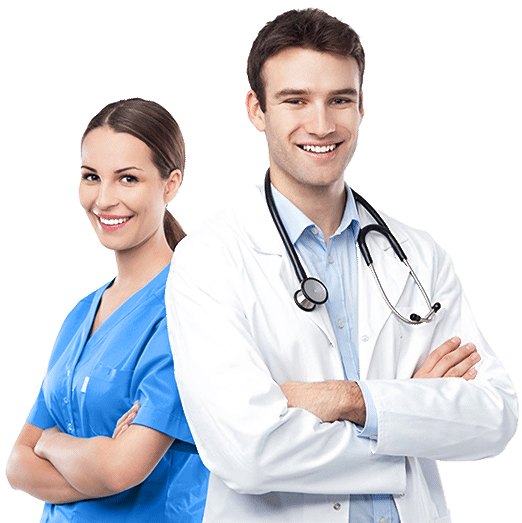
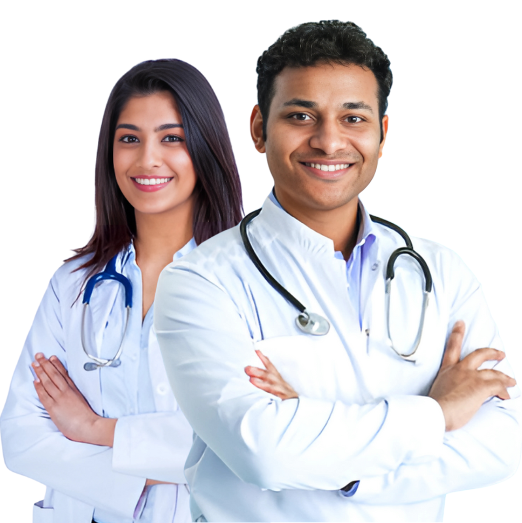
dr image

diff --git a/about-us.html b/about-us.html
@@ -24,30 +24,35 @@
 	<!-- About Us-->
 
 
-<section class="py-5 bg-white">
-  <div class="container">
-    <!-- Main About Section -->
-    <div class="row align-items-center mb-5">
-      <div class="col-lg-6">
-        <img src="img/about-img.jpg" alt="About TCiS" class="img-fluid rounded shadow">
-      </div>
-      <div class="col-lg-6">
-        <h6 class="text-uppercase text-primary">About Us</h6>
-        <h2 class="fw-bold mb-3">Empowering Healthcare Through <span class="text-primary">Innovative IT Solutions</span></h2>
-        <p class="text-muted">
-          Founded in 2012, <strong>Trio Corporation IT Services (TCiS)</strong> has led the way in delivering scalable, secure, and smart IT solutions for the healthcare industry. Headquartered in Pune, with offices in Mumbai, Ahmedabad, and Delhi, we help healthcare institutions undergo digital transformation with confidence.
-        </p>
-        <ol class="list-unstyled text-muted">
-          <li><i class="bi bi-check-circle-fill text-primary me-2"></i> Smart & scalable hospital software</li>
-          <li><i class="bi bi-check-circle-fill text-primary me-2"></i> Trusted by 220+ hospitals</li>
-          <li><i class="bi bi-check-circle-fill text-primary me-2"></i> NABH & HIPAA compliant</li>
-        </ol>
-        <a href="mailto:info@triocorporation.in" class="btn btn-primary mt-3">Learn More</a>
-      </div>
-    </div>
+	<section class="py-5 bg-white">
+		<div class="container">
+			<!-- Main About Section -->
+			<div class="row align-items-center mb-5">
+				<div class="col-lg-6">
+					<img src="img/rahulsir.jpg" alt="About TCiS" class="img-fluid rounded shadow">
+				</div>
+				<div class="col-lg-6">
+					<h6 class="text-uppercase text-primary">About Us</h6>
+					<h2 class="fw-bold mb-3">Empowering Healthcare Through <span class="text-primary">Innovative IT
+							Solutions</span></h2>
+					<p class="text-muted">
+						Founded in 2012, <strong>Trio Corporation IT Services (TCiS)</strong> has led the way in
+						delivering scalable, secure, and smart IT solutions for the healthcare industry. Headquartered
+						in Pune, with offices in Mumbai, Ahmedabad, and Delhi, we help healthcare institutions undergo
+						digital transformation with confidence.
+					</p>
+					<ol class="list-unstyled text-muted">
+						<li><i class="bi bi-check-circle-fill text-primary me-2"></i> Smart & scalable hospital software
+						</li>
+						<li><i class="bi bi-check-circle-fill text-primary me-2"></i> Trusted by 220+ hospitals</li>
+						<li><i class="bi bi-check-circle-fill text-primary me-2"></i> NABH & HIPAA compliant</li>
+					</ol>
+					<a href="mailto:info@triocorporation.in" class="btn btn-primary mt-3">Learn More</a>
+				</div>
+			</div>
 
-    <!-- Leadership and Vision -->
-    <!-- <div class="row text-center mb-5">
+			<!-- Leadership and Vision -->
+			<!-- <div class="row text-center mb-5">
       <div class="col-md-4 mb-4">
         <div class="bg-light p-4 rounded shadow-sm h-100">
           <h6 class="text-primary">Founder & Director</h6>
@@ -70,55 +75,59 @@
     </div> -->
 
 
-	<div class="row text-center mb-5">
-  <div class="col-md-4 mb-4">
-    <div class="bg-light p-4 rounded shadow-sm h-100">
-      <h6 class="text-primary fs-5 fw-semibold">Founder & Director</h6>
-      <h5 class="fw-bold fs-4">Mr. Rahul Wanchoo</h5>
-      <p class="text-muted fs-6" style="font-size: 1.05rem;">
-        With over 15 years of expertise, Rahul leads TCiS in delivering 
-        <strong>HIMS Trio</strong>, a trusted solution used by hospitals nationwide.
-      </p>
-    </div>
-  </div>
-  <div class="col-md-4 mb-4">
-    <div class="bg-light p-4 rounded shadow-sm h-100">
-      <h6 class="text-primary fs-5 fw-semibold">Vision</h6>
-      <p class="text-muted fs-6" style="font-size: 1.05rem;">
-        To drive progress with innovative tech that improves healthcare, 
-        empowers lives, and enables a smarter future.
-      </p>
-    </div>
-  </div>
-  <div class="col-md-4 mb-4">
-    <div class="bg-light p-4 rounded shadow-sm h-100">
-      <h6 class="text-primary fs-5 fw-semibold">Mission</h6>
-      <p class="text-muted fs-6" style="font-size: 1.05rem;">
-        To deliver reliable and cost-effective IT solutions enabling operational excellence 
-        and business growth for our clients.
-      </p>
-    </div>
-  </div>
-</div>
+			<div class="row text-center mb-5">
+				<div class="col-md-4 mb-4">
+					<div class="bg-light p-4 rounded shadow-sm h-100">
+						<h6 class="text-primary fs-5 fw-semibold">Founder & Director</h6>
+						<h5 class="fw-bold fs-4">Mr. Rahul Wanchoo</h5>
+						<p class="text-muted fs-6" style="font-size: 1.05rem;">
+							With over 15 years of expertise, Rahul leads TCiS in delivering
+							<strong>HIMS Trio</strong>, a trusted solution used by hospitals nationwide.
+						</p>
+					</div>
+				</div>
+				<div class="col-md-4 mb-4">
+					<div class="bg-light p-4 rounded shadow-sm h-100">
+						<h6 class="text-primary fs-5 fw-semibold">Vision</h6>
+						<p class="text-muted fs-6" style="font-size: 1.05rem;">
+							To drive progress with innovative tech that improves healthcare,
+							empowers lives, and enables a smarter future.
+						</p>
+					</div>
+				</div>
+				<div class="col-md-4 mb-4">
+					<div class="bg-light p-4 rounded shadow-sm h-100">
+						<h6 class="text-primary fs-5 fw-semibold">Mission</h6>
+						<p class="text-muted fs-6" style="font-size: 1.05rem;">
+							To deliver reliable and cost-effective IT solutions enabling operational excellence
+							and business growth for our clients.
+						</p>
+					</div>
+				</div>
+			</div>
 
-    <!-- Product Description -->
-    <div class="mb-5">
-      <h3 class="fw-bold text-primary mb-3">Our Flagship Product – HIMS Trio</h3>
-      <p class="text-muted">
-        HIMS Trio is a robust and modular Hospital Information Management Software designed to digitize, simplify, and optimize every aspect of hospital operations. Whether it’s patient registration, billing, EMR, pharmacy, laboratory, or MIS reporting, our software offers 30+ seamlessly integrated modules to ensure end-to-end hospital automation.
-      </p>
-      <ul class="text-muted">
-        <li>• Eliminates paperwork and redundant processes</li>
-        <li>• Enhances data accuracy and accessibility</li>
-        <li>• Ensures compliance with NABH and HIPAA standards</li>
-        <li>• Improves patient care and administrative control</li>
-        <li>• Enables cloud-based and on-premise deployment</li>
-      </ul>
-      <p class="text-muted">Our solution is fully customizable for clinics, diagnostic centers, and multi-specialty hospitals.</p>
-    </div>
+			<!-- Product Description -->
+			<div class="mb-5">
+				<h3 class="fw-bold text-primary mb-3">Our Flagship Product – HIMS Trio</h3>
+				<p class="text-muted">
+					HIMS Trio is a robust and modular Hospital Information Management Software designed to digitize,
+					simplify, and optimize every aspect of hospital operations. Whether it’s patient registration,
+					billing, EMR, pharmacy, laboratory, or MIS reporting, our software offers 30+ seamlessly integrated
+					modules to ensure end-to-end hospital automation.
+				</p>
+				<ul class="text-muted">
+					<li>• Eliminates paperwork and redundant processes</li>
+					<li>• Enhances data accuracy and accessibility</li>
+					<li>• Ensures compliance with NABH and HIPAA standards</li>
+					<li>• Improves patient care and administrative control</li>
+					<li>• Enables cloud-based and on-premise deployment</li>
+				</ul>
+				<p class="text-muted">Our solution is fully customizable for clinics, diagnostic centers, and
+					multi-specialty hospitals.</p>
+			</div>
 
-    <!-- Core Values -->
-    <div class="mb-5">
+			<!-- Core Values -->
+			<!-- <div class="mb-5">
       <h4 class="fw-bold text-primary mb-3">Our Core Values</h4>
       <ul class="text-muted">
         <li>• <strong>Innovation:</strong> We believe in pushing boundaries through technology</li>
@@ -127,41 +136,79 @@
         <li>• <strong>Excellence:</strong> Commitment to quality, performance, and long-term results</li>
         <li>• <strong>Collaboration:</strong> A culture of teamwork, respect, and shared success</li>
       </ul>
-    </div>
+    </div> -->
 
-    <!-- Industry Footprint -->
-    <div class="mb-5">
-      <h4 class="fw-bold text-primary mb-3">Our Industry Footprint</h4>
-      <ul class="text-muted">
-        <li>• <strong>Clients Served:</strong> 1,500+ across healthcare, pharma, telecom, and public sectors</li>
-        <li>• <strong>Installations:</strong> 220+ HIMS Trio implementations and growing</li>
-        <li>• <strong>Employees:</strong> A dedicated team of 50+ experienced IT professionals</li>
-        <li>• <strong>Presence:</strong> Active in major Indian metros with expansion plans in progress</li>
-      </ul>
-      <p class="text-muted">Our team combines domain expertise with a passion for innovation, ensuring every solution aligns with real-world healthcare challenges.</p>
-    </div>
+			<!-- Industry Footprint -->
+			<div class="mb-5">
+				<h4 class="fw-bold text-primary mb-3">Our Industry Footprint</h4>
+				<ul class="text-muted">
+					<li>• <strong>Clients Served:</strong> 1,500+ across healthcare, pharma, telecom, and public sectors
+					</li>
+					<li>• <strong>Installations:</strong> 220+ HIMS Trio implementations and growing</li>
+					<li>• <strong>Employees:</strong> A dedicated team of 50+ experienced IT professionals</li>
+					<li>• <strong>Presence:</strong> Active in major Indian metros with expansion plans in progress</li>
+				</ul>
+				<p class="text-muted">Our team combines domain expertise with a passion for innovation, ensuring every
+					solution aligns with real-world healthcare challenges.</p>
+			</div>
 
-    <!-- Future Vision CTA -->
-    <div style="background-color: #f08718; color: #ffffff;" class="p-4 rounded-3 shadow text-center">
-  <h5 style="color: #ffffff;" class="fw-bold mb-3">Let’s Build the Future of Healthcare Together</h5>
-  <p class="mb-2" style="color: #ffffff;">
-    Whether you're a single-specialty clinic or a multi-location hospital chain, 
-    <strong style="color: #ffffff;">HIMS Trio</strong> is your trusted partner in healthcare automation.
-  </p>
-  <p class="mb-3" style="color: #ffffff;">
-    Our team is here to guide you from consultation to deployment and beyond.
-  </p>
-  <p class="mb-0" style="color: #ffffff;">
-    📞 Contact us at <strong style="color: #ffffff;">+91 902 10 23456</strong><br>
-    📧 Email: 
-    <a href="mailto:info@triocorporation.in" style="color: #ffffff; text-decoration: underline;">
-      info@triocorporation.in
-    </a>
-  </p>
-</div>
+			<div class="mb-5 text-center">
+				<h4 class="text-orange mb-4">Our Core Values</h4>
+				<div class="row justify-content-center">
+					<div class="col-md-2 col-6 mb-4">
+						<img src="https://cdn-icons-png.flaticon.com/512/3304/3304566.png" width="60" alt="Innovation">
+						<p class="fw-semibold text-primary mt-2">Innovation</p>
+						<p class="small text-muted">We believe in pushing boundaries through technology</p>
+					</div>
+					<div class="col-md-2 col-6 mb-4">
+						<img src="https://cdn-icons-png.flaticon.com/512/3271/3271337.png" width="60" alt="Integrity">
+						<p class="fw-semibold text-primary mt-2">Integrity</p>
+						<p class="small text-muted">Ethical business practices and transparency</p>
+					</div>
+					<div class="col-md-2 col-6 mb-4">
+						<img src="https://cdn-icons-png.flaticon.com/512/599/599305.png" width="60"
+							alt="Customer Centricity">
+						<p class="fw-semibold text-primary mt-2">Customer Centricity</p>
+						<p class="small text-muted">Our clients are at the heart of everything we do</p>
+					</div>
+					<div class="col-md-2 col-6 mb-4">
+						<img src="https://cdn-icons-png.flaticon.com/512/1055/1055646.png" width="60" alt="Excellence">
+						<p class="fw-semibold text-primary mt-2">Excellence</p>
+						<p class="small text-muted">Commitment to quality and long-term results</p>
+					</div>
+					<div class="col-md-2 col-6 mb-4">
+						<img src="https://cdn-icons-png.flaticon.com/512/2621/2621121.png" width="60"
+							alt="Collaboration">
+						<p class="fw-semibold text-primary mt-2">Collaboration</p>
+						<p class="small text-muted">A culture of teamwork and shared success</p>
+					</div>
+				</div>
+			</div>
 
-  </div>
-</section>
+
+
+
+			<!-- Future Vision CTA -->
+			<div style="background-color: #f08718; color: #ffffff;" class="p-4 rounded-3 shadow text-center">
+				<h5 style="color: #ffffff;" class="fw-bold mb-3">Let’s Build the Future of Healthcare Together</h5>
+				<p class="mb-2" style="color: #ffffff;">
+					Whether you're a single-specialty clinic or a multi-location hospital chain,
+					<strong style="color: #ffffff;">HIMS Trio</strong> is your trusted partner in healthcare automation.
+				</p>
+				<p class="mb-3" style="color: #ffffff;">
+					Our team is here to guide you from consultation to deployment and beyond.
+				</p>
+				<p class="mb-0" style="color: #ffffff;">
+					📞 Contact us at <strong style="color: #ffffff;">+91 902 10 23456</strong><br>
+					📧 Email:
+					<a href="mailto:info@triocorporation.in" style="color: #ffffff; text-decoration: underline;">
+						info@triocorporation.in
+					</a>
+				</p>
+			</div>
+
+		</div>
+	</section>
 
 
 
